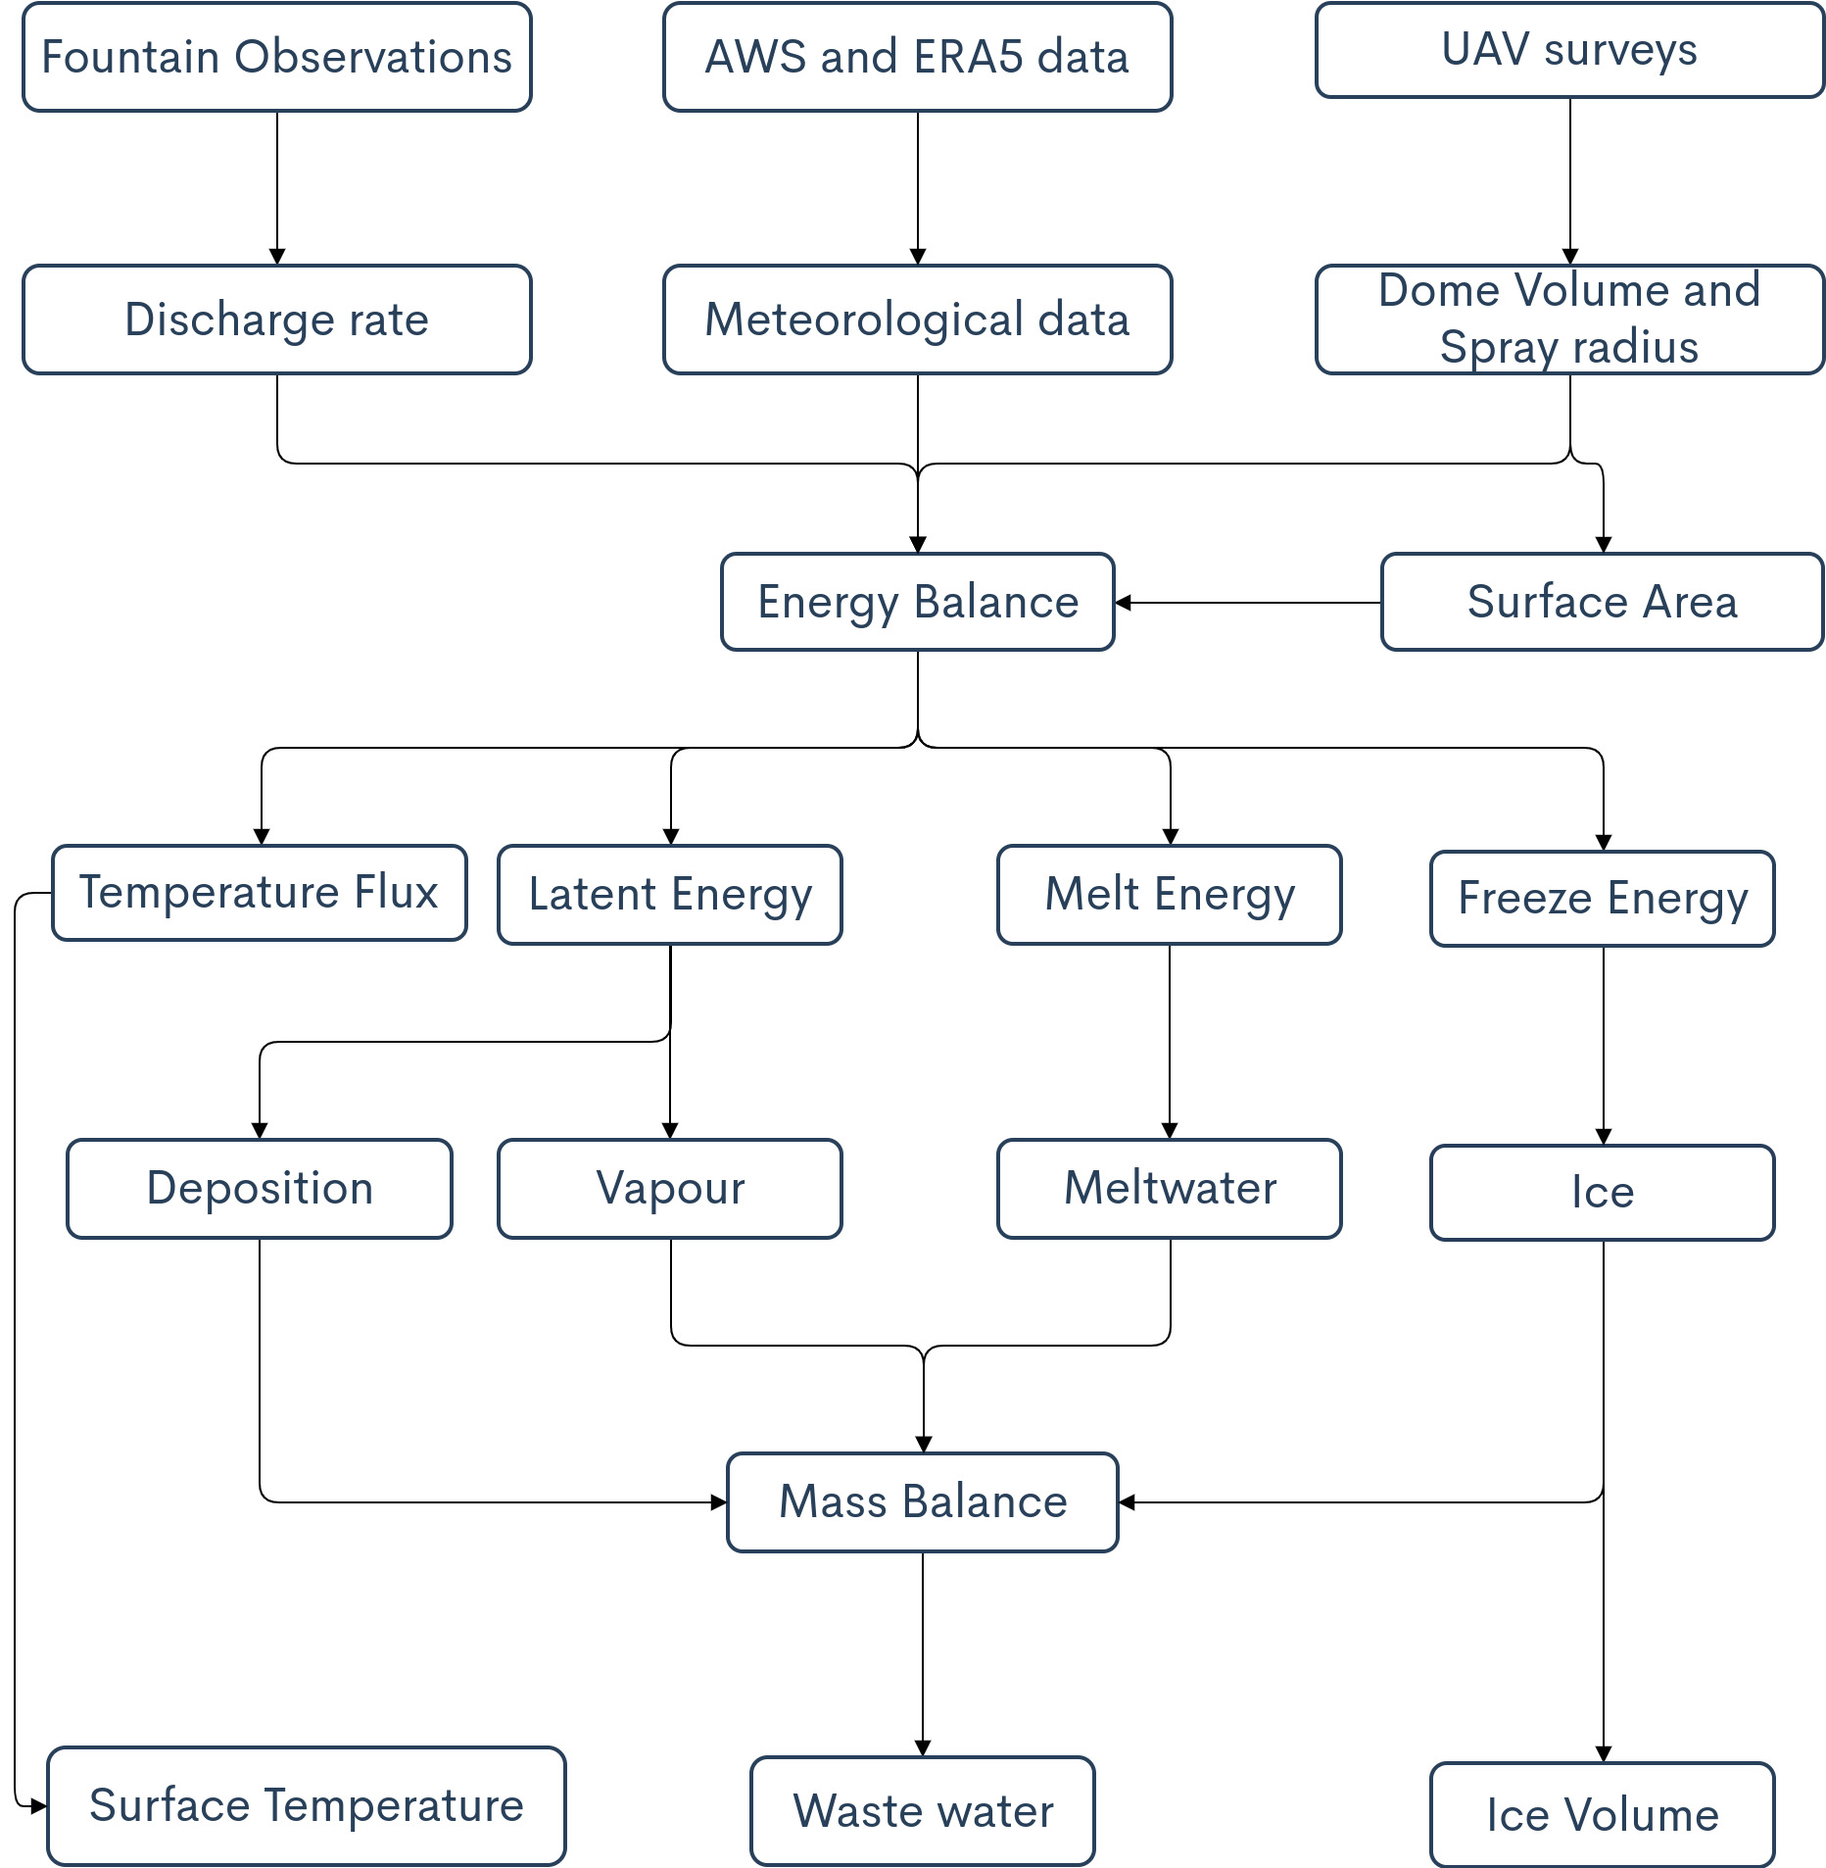
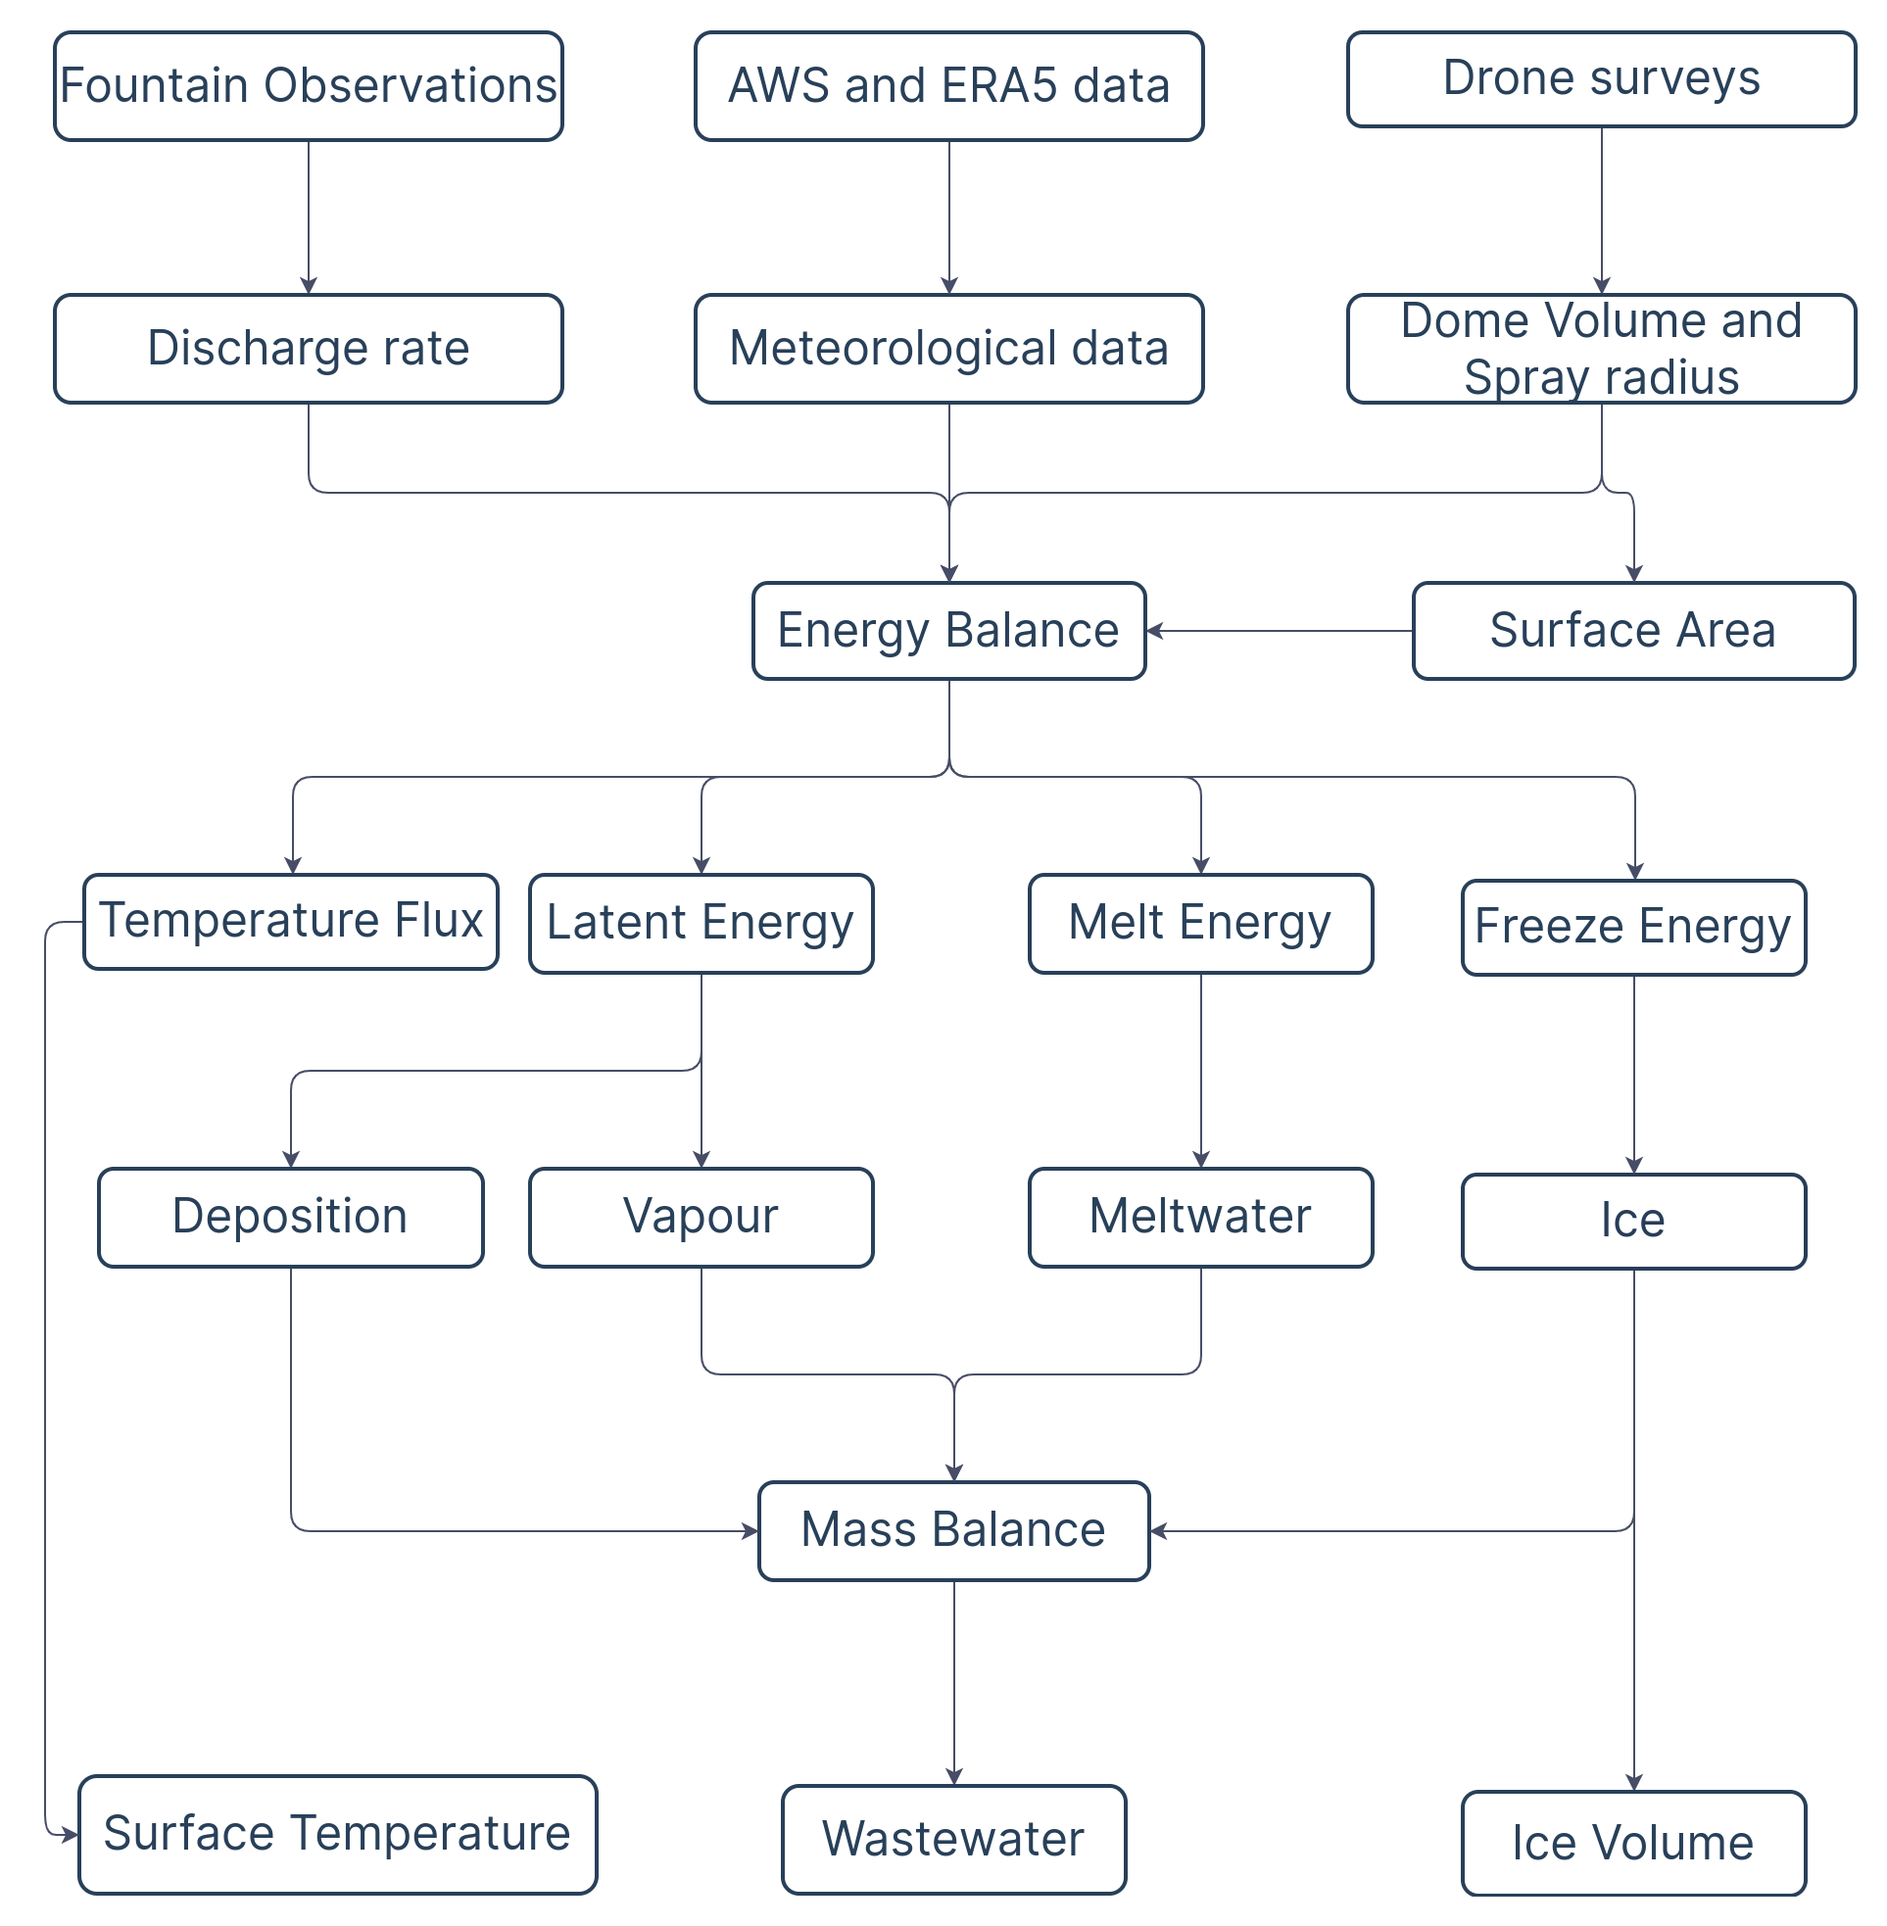
update figs

diff --git a/air.tex b/air.tex
@@ -53,7 +53,7 @@
   of meteorological data in conjunction with fountain discharge rate (mass input of an AIR). Model calibration
   and validation were completed using ice volume and surface area measurements taken from several drone surveys.
   The model achieved an RMSE within $18 \%$ of the maximum ice volume with the ice volume observations for all
-  the three AIRs. The location in Ladakh, with a maximum ice volume around 4 times larger, was more favourable
+  the AIRs. The location in Ladakh, with a maximum ice volume around 4 times larger, was more favourable
   compared to the Guttannen site.  However, the corresponding water losses for all the AIRs were more than three
   quarters of the total fountain discharge due to high fountain wastewater. Drier and colder locations in
   relatively cloud free regions are expected to produce AIRs with a faster freezing rate and slower melting
@@ -96,7 +96,7 @@ the warm spring and summer months.  The main purpose of AIRs is irrigation. Ther
 store water in the form of ice as long into the summer as possible. The energy required to construct an AIR is
 usually derived from the gravitational head of the source water body. Some are constructed horizontally by
 freezing water using a series of checkdams while others are built vertically by spraying water through fountain
-systems \citep{Nusser_2018}. The latter are colloquially referred to as Icestupas and are the subject of this
+systems \citep{Nusser_2018}. The latter are colloquially referred to as icestupas and are the subject of this
 study.
 
 A typical AIR (see Fig. \ref{fig:old_icestupa}) simply requires a fountain nozzle mounted on a supply pipeline.
@@ -107,8 +107,8 @@ through the addition of metal pipes when significant ice accumulates below.  Typ
 constructed around the metal pipes so that pipe extensions can be done from within this dome. Threads, tree
 branches and fishing nets are used to guide and accelerate the ice formation.
 
-However, to date, no reliable estimates exist about the quantity of meltwater they can provide
-\citep{Nusser_2018} . Moreover, preliminary estimates of AIRs in Ladakh indicate that they generate high water
+However, to date, no reliable estimates exist about the quantity of meltwater an AIR can provide
+\citep{Nusser_2018}. Moreover, preliminary estimates of AIRs in Ladakh indicate that they generate high water
 losses during their lifetimes (see Appendix \ref{sec:ladakhloss}). During their accumulation period, AIRs can
 lose excessive fountain water directly as wastewater and during the ablation period, sublimation losses could
 also be significant.  However, the relative contribution of these processes in the total water loss remains
@@ -127,9 +127,9 @@ worldwide \citep{campaign}.
 The model requires three kinds of datasets containing weather, fountain and AIR volume measurements to
 accurately calibrate, estimate and validate the ice volume of AIRs. Through the winters of 2018/19, 2019/20 and
 2020/21, such datasets were acquired for four AIRs in both Switzerland and India. Here, we present the results of
-three AIRs, which have a complete dataset. As shown in Table \ref{tab:Observations}, two of them were
-constructed in the same Swiss location called Guttannen (referred to with the prefix CH) but during different
-winters, and the other was constructed at Gangles, India (referred to with the prefix IN).
+three AIRs, which have a complete dataset. Two of them were constructed in the same Swiss location called
+Guttannen (referred to with the prefix CH) but during different winters, and the other was constructed at
+Gangles, India (referred to with the prefix IN).
 
 The Guttannen site (46.66 $\degree$N, 8.29 $\degree$E) in the Bern region lies at 1047 $m$ a.s.l.. In the winter
 (Oct-Apr), mean daily minimum and maximum air temperatures vary between -13 and 15 $\degree C$. Clear skies are
@@ -158,7 +158,7 @@ characterized by high seasonal variation. During January, the coldest month, the
 \citep{Nusser_2012}. Because of the rain shadow effect of the Himalayan Range, mean annual precipitation in Leh
 totals less than 100 mm, and there is high interannual variability. Whereas the average summer rainfall between
 July and September reaches 37.5 mm, the average winter precipitation between January and March amounts to 27.3
-mm and falls almost entirely as snow.  AIRs were constructed here as part of the Icestupa Competition  by the
+mm and falls almost entirely as snow.  AIRs were constructed here as part of the Ice Stupa Competition by the
 Himalayan Institute of Alternatives, Ladakh (HIAL). The fountain height of the AIR varied between 5 to 9\,$m$.
 
 \subsection{Meteorological data}
@@ -170,10 +170,10 @@ dates are denoted as start and expiry dates henceforth.
 
 For the CH site, the primary weather data source was a Meteoswiss AWS located 184 m away (Station ID: 0-756-0-GTT).
 In addition, we used ERA5 reanalysis dataset \citep{era5} for filling data gaps and adding the shortwave and
-longwave radiation data that were not measured directly. The CH temperature dataset had a correlation greater
-than 0.8 with the ERA5 temperature for both the winters. The ERA5 reanalysis dataset is known to have a high
-correlation with sites in Switzerland \citep{Scherrer_2020}. The ERA5 grid point chosen (46.64 $\degree$N, 8.25
-$\degree$E) for the Swiss site was around 3.6 km away from the actual site. ERA5 variables (except incoming
+longwave radiation data that were not measured directly. The ERA5 reanalysis dataset is known to have a high
+correlation with sites in Switzerland \citep{Scherrer_2020}. The guttannen temperature dataset had a correlation
+greater than 0.8 with the ERA5 temperature for both the winters.  The ERA5 grid point chosen (46.64 $\degree$N,
+8.25 $\degree$E) for the Swiss site was around 3.6 km away from the actual site. ERA5 variables (except incoming
 shortwave and longwave radiation) were fitted with the meteoswiss dataset via linear regressions. The zero wind
 speed values recorded by the Meteoswiss AWS whenever snow accumulated on the ultrasonic wind sensor were
 replaced using the ERA5 dataset. 
@@ -183,11 +183,10 @@ model. Temperature, humidity, wind speed and pressure data was logged with a wea
 from the construction site. Shortwave radiation data was derived from another weather station located 15 km
 away. Unfortunately, precipitation was not logged. Since winter precipitation in Ladakh is less than 30 mm
 \citep{Nusser_2012}, we can safely assume negligible precipitation and mostly clear skies. As a consequence, the
-diffuse fraction of the global shortwave radiation was also assumed to be negligible.
-
-Temperature and humidity were measured with a rotronic sensor with an accuracy of $\pm\,0.3\, \degree C$ and
-$\pm\,1 \%$ respectively. A young sensor measured the wind speed with an accuracy of $\pm\,0.3\, ms^{-1}$ and a
-setra sensor measured the pressure with an accuracy of $\pm\,0.01\, hPa$. 
+diffuse fraction of the global shortwave radiation was also assumed to be negligible. Temperature and humidity
+were measured with a rotronic sensor with an accuracy of $\pm\,0.3\, \degree C$ and $\pm\,1 \%$ respectively. A
+young sensor measured the wind speed with an accuracy of $\pm\,0.3\, ms^{-1}$ and a setra sensor measured the
+pressure with an accuracy of $\pm\,0.01\, hPa$. 
 
 \begin{table}
   \caption{Summary of the weather and fountain observations. The expiry date refers to the date when  all of the
@@ -1155,8 +1154,8 @@ of the influence of the location chosen and the fountain used. Our main conclusi
 
   \item The Indian construction site produced long lasting AIRs with higher maximum ice volumes since it was
     colder, drier and less cloudy compared to the Swiss construction site. Thus, the AIR technology is ideally
-    suited to serve as a water management strategy, especially in dry and cold mountain regions impacted by
-    climate change induced water stress.
+    suited to serve as a water management strategy, especially in dry and cold mountain regions such as in
+    Central Asia or the Andes impacted by climate change induced water stress.
 
 \end{itemize}
 
@@ -1176,7 +1175,7 @@ completely melted away on $6^{th}$ July 2015 \citep{iceends}.
 
 \begin{figure}
 	\begin{center}
-		\includegraphics[width=10 cm]{Figures/gangles_DEM.jpg}
+		\includegraphics[width=10 cm]{Figures/Figure_8.jpg}
 	\end{center}
 	\caption{Digital elevation map of Indian AIR constructed from the drone survey on March 3, 2021. The green
 		area represents the area bounded by the marked perimeter and the red area represents gaps in the point cloud
